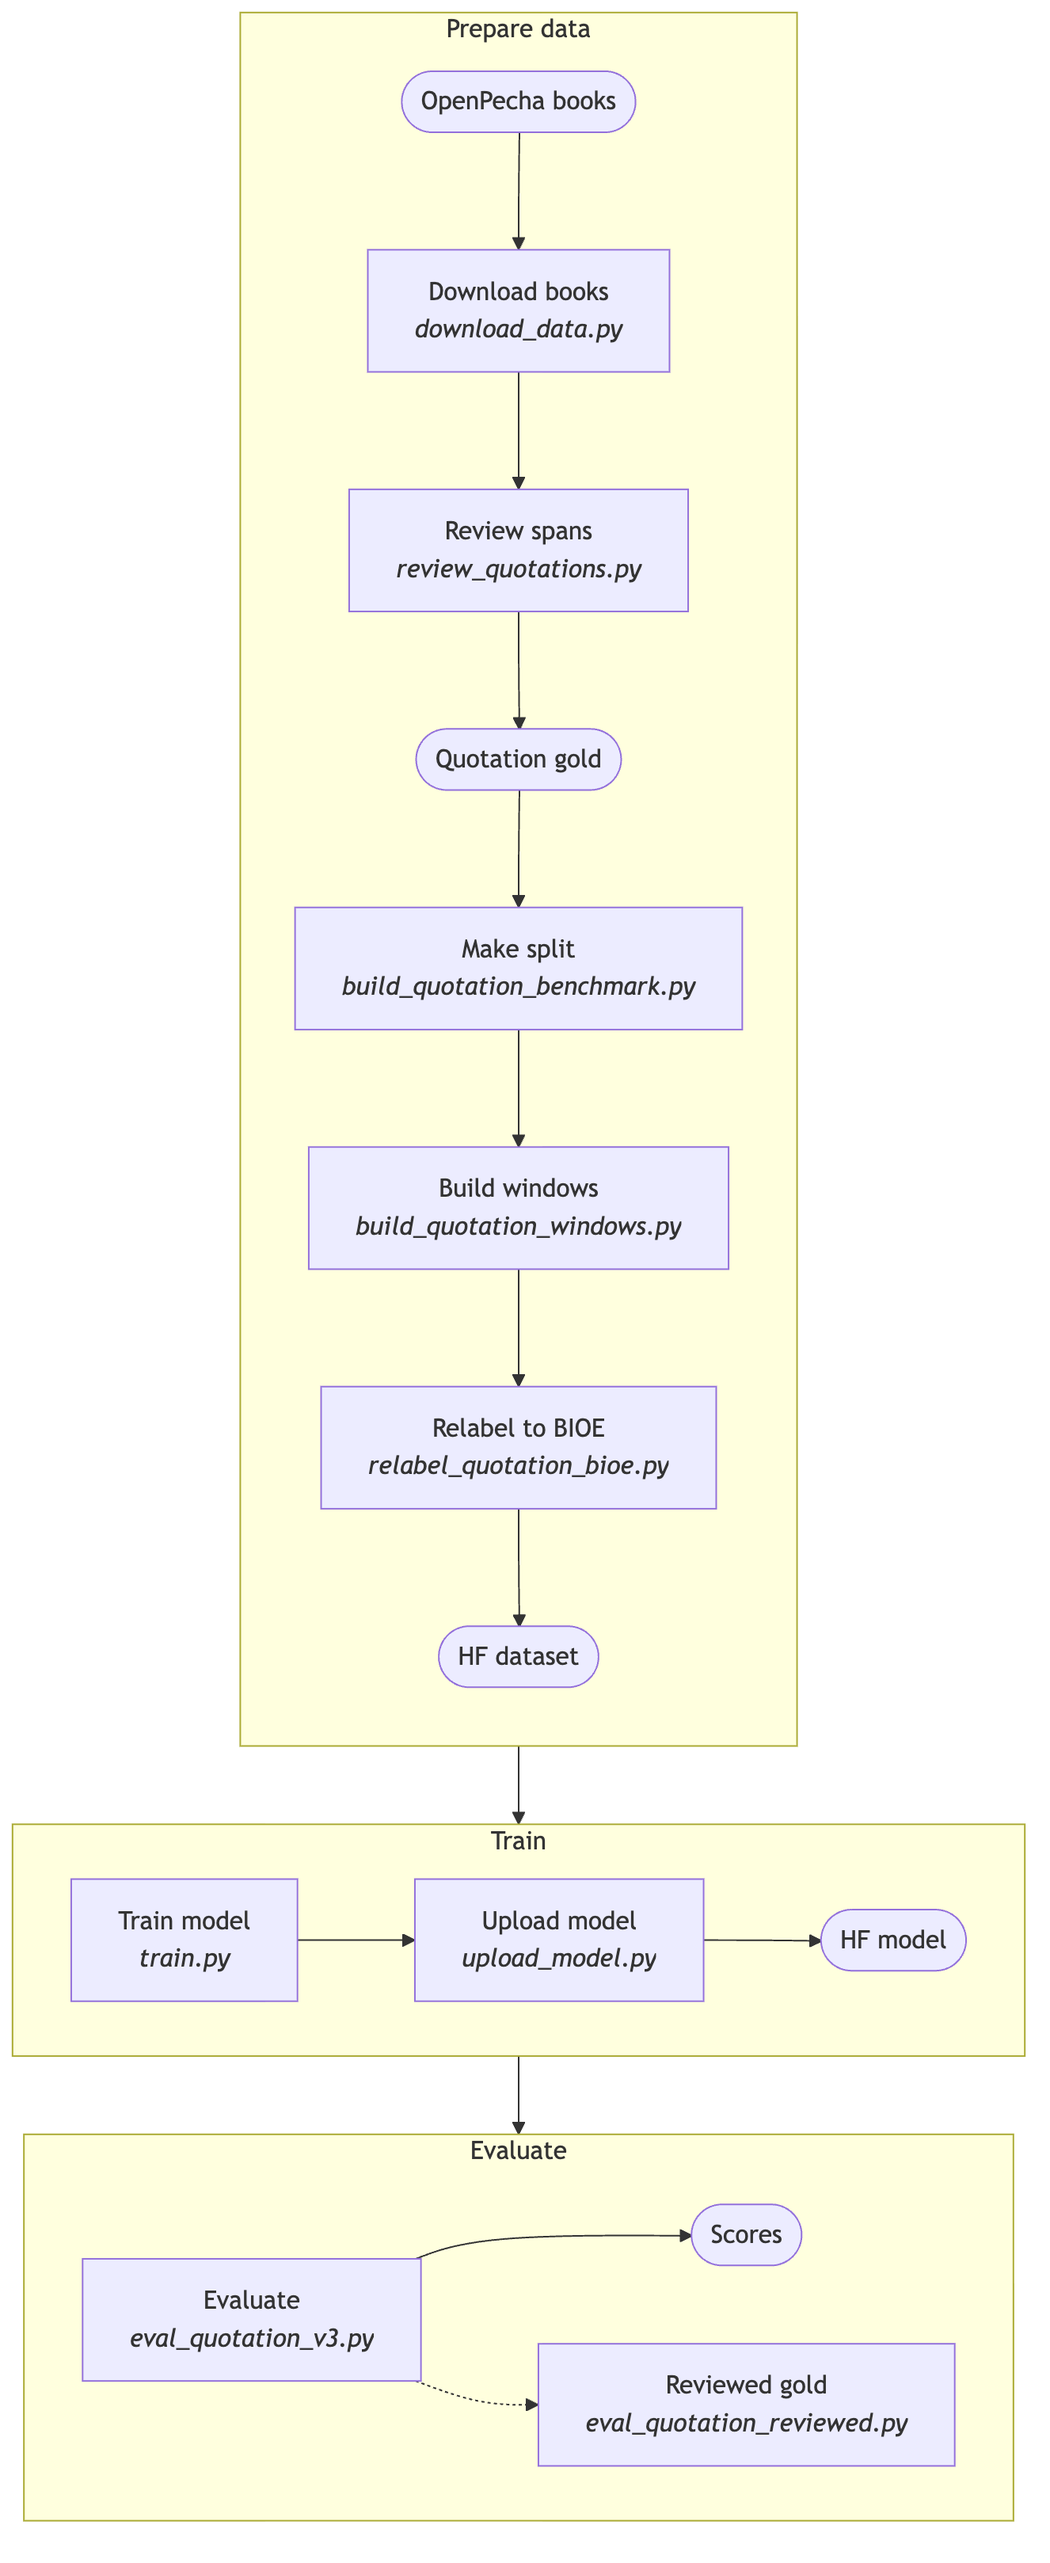
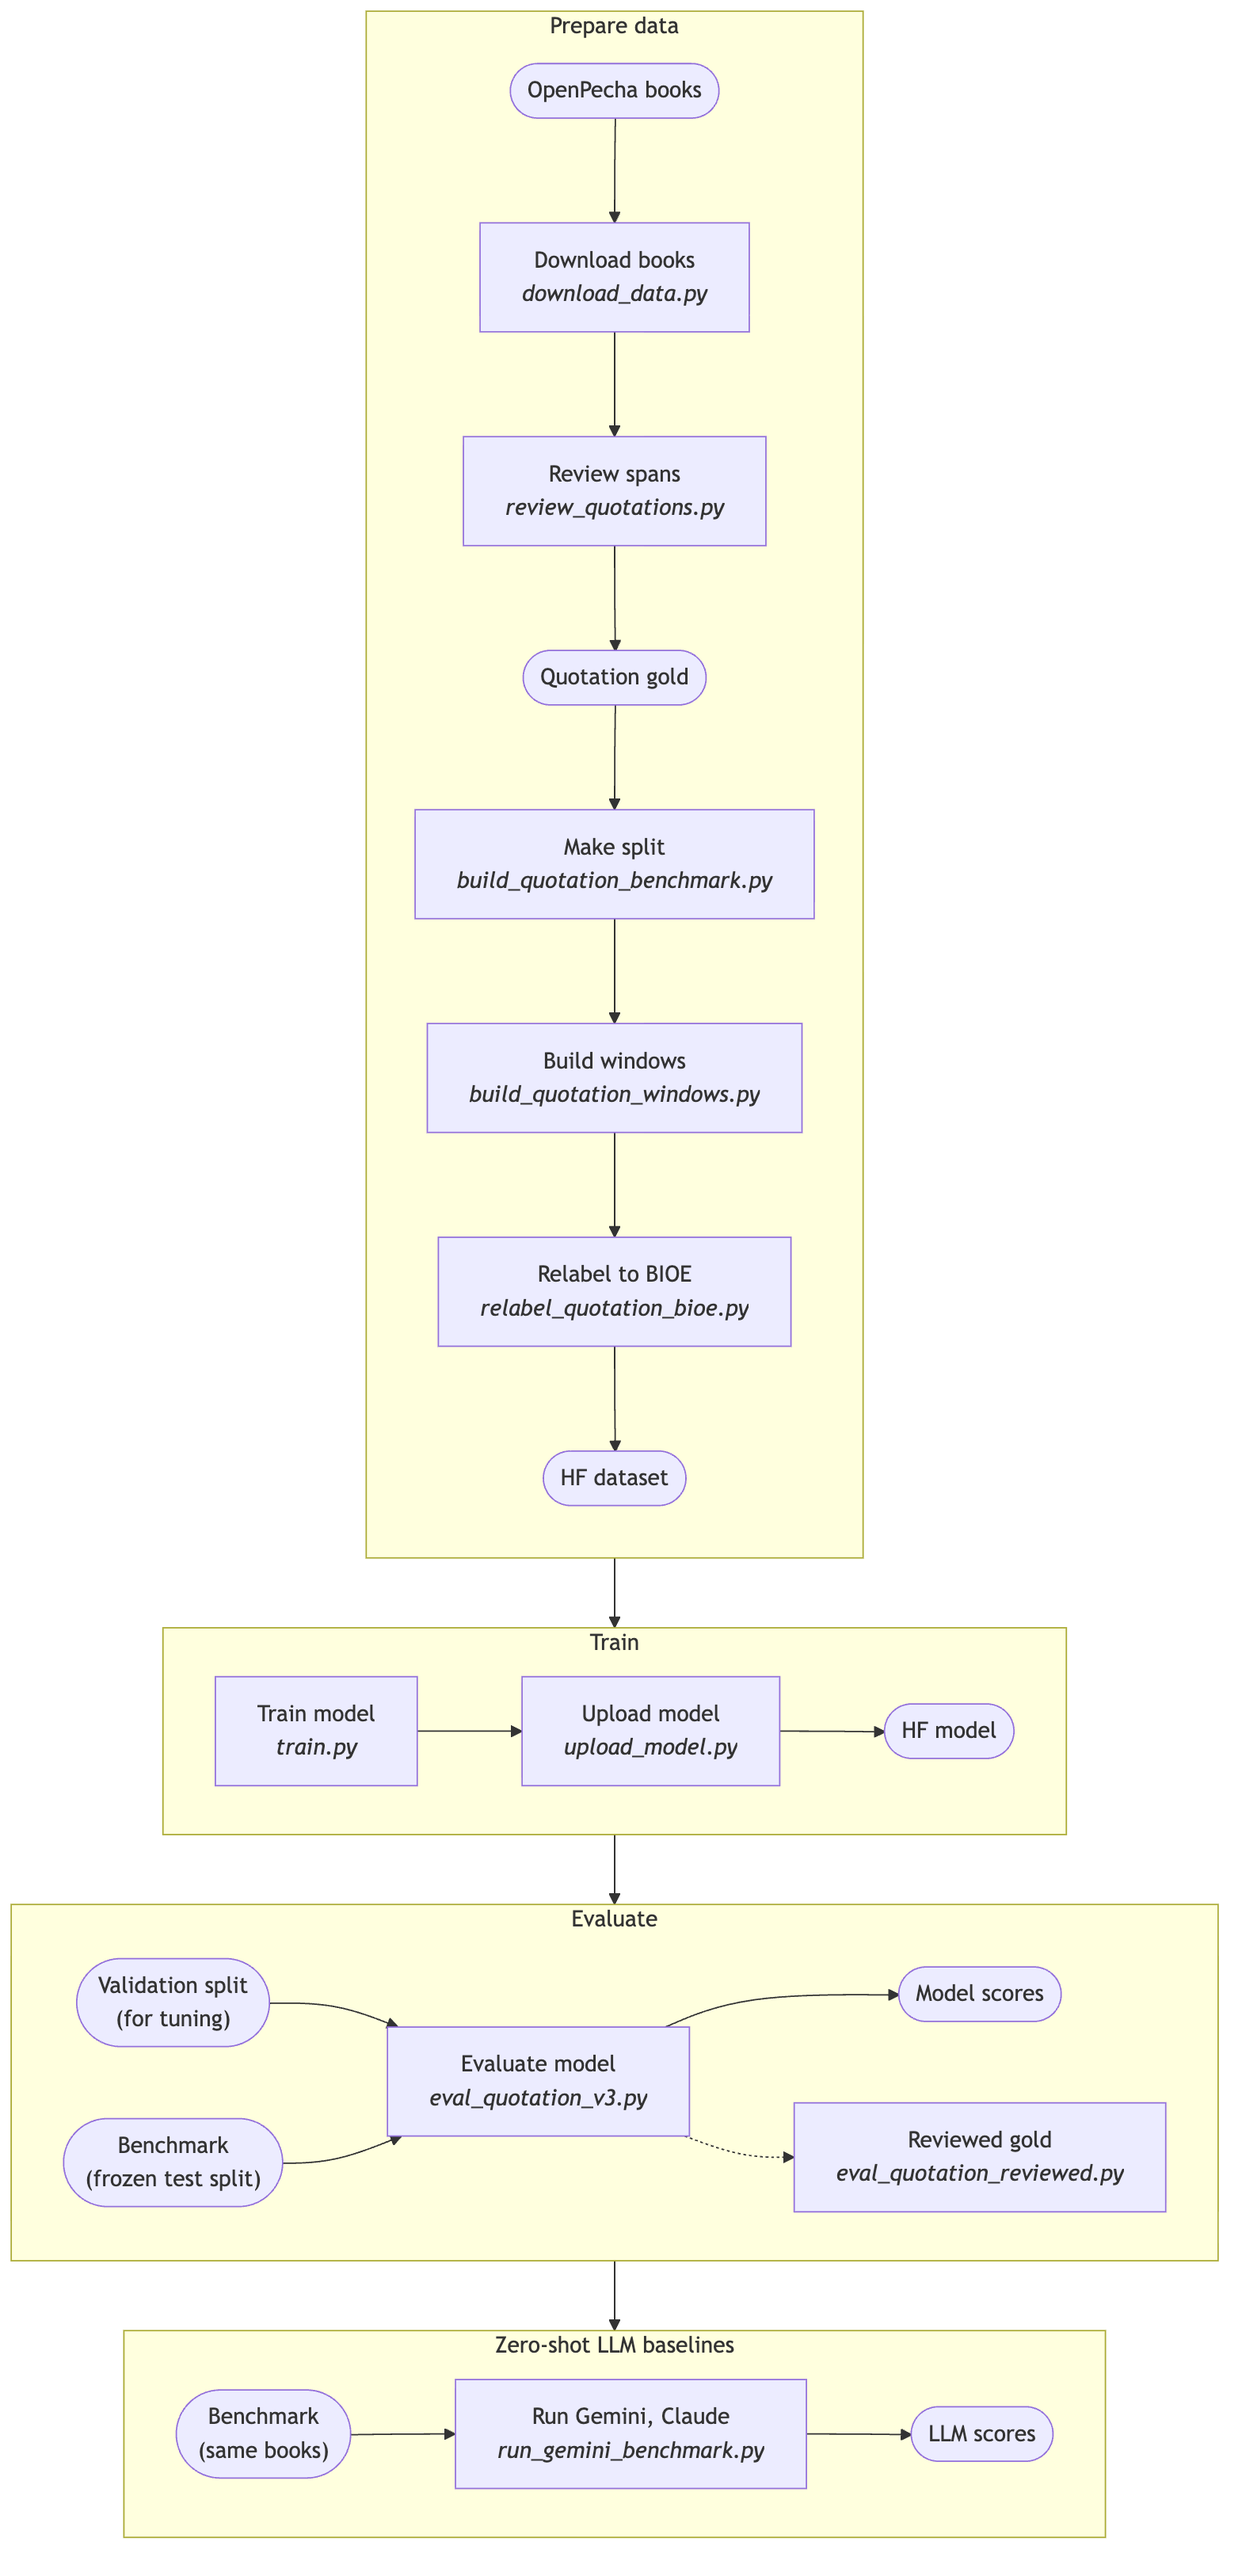
Charts: benchmark, validation and LLM-baseline boxes for Sabche, Quotation, Title/author, Tsawa, Yigchung

diff --git a/tsawa/README.md b/tsawa/README.md
@@ -32,7 +32,7 @@ Visibility read from the Hub on 2026-11-18; a 404 on the dataset means you need 
 
 <sub>Chart source: [pipeline.mmd](docs/pipeline.mmd)</sub>
 
-Squares are steps with the script that runs them; rounded boxes are files; dashed arrows are optional steps. "Add classical" stands for three scripts (convert, split, collapse; see Main pipeline). The cards are in [docs/](docs/).
+Squares are steps with the script that runs them; rounded boxes are files; dashed arrows are optional steps. The **benchmark** is the frozen test split: it is scored once and never used to tune. No zero-shot LLM results exist for Tsawa; only the prompt is in `docs/prompts/`. "Add classical" stands for three scripts (convert, split, collapse; see Main pipeline). The cards are in [docs/](docs/).
 
 ## Main pipeline
 

diff --git a/quotation/README.md b/quotation/README.md
@@ -31,7 +31,7 @@ Read from the Hub with the local login on 2026-11-18. A 404 on the model means y
 
 <sub>Chart source: [pipeline.mmd](docs/pipeline.mmd)</sub>
 
-Squares are steps with the script that runs them; rounded boxes are files; dashed arrows are optional steps. Dataset uploads use the `--push` flag of the data scripts.
+Squares are steps with the script that runs them; rounded boxes are files; dashed arrows are optional steps. The **benchmark** is the frozen test split: it is scored once and never used to tune. The zero-shot LLM runs (Gemini, Claude) use the same 19 benchmark books; their script is in the quotation repository, not here. Dataset uploads use the `--push` flag of the data scripts.
 
 ## Main pipeline
 

diff --git a/sabche/README.md b/sabche/README.md
@@ -31,7 +31,7 @@ Both are private (read from the Hub, 2026-11-18); a 404 means you need access fr
 
 <sub>Chart source: [pipeline.mmd](docs/pipeline.mmd)</sub>
 
-Squares are steps with the script that runs them; rounded boxes are files; dashed arrows are optional steps. The cards are in [docs/](docs/).
+Squares are steps with the script that runs them; rounded boxes are files; dashed arrows are optional steps. The **benchmark** is the frozen test split: it is scored once and never used to tune. The zero-shot LLM runs (Claude Sonnet 5, Gemini) use the same 29 benchmark books; results are in [results/zeroshot/](results/zeroshot/). The cards are in [docs/](docs/).
 
 ## Main pipeline
 

diff --git a/yigchung/README.md b/yigchung/README.md
@@ -47,7 +47,7 @@ Classified (genre) system:
 
 <sub>Chart source: [pipeline_2.mmd](docs/pipeline_2.mmd)</sub>
 
-Squares are steps with the script that runs them; rounded boxes are files; dashed arrows are optional steps. Uploading the dataset and the model is done with the Hugging Face CLI (no script here).
+Squares are steps with the script that runs them; rounded boxes are files; dashed arrows are optional steps. The **benchmark** is the corrected 77-book test set, scored once. Gemini is used here only to label genres, not as a baseline. Uploading the dataset and the model is done with the Hugging Face CLI (no script here).
 
 ## Main pipeline
 

diff --git a/title_author/README.md b/title_author/README.md
@@ -34,7 +34,7 @@ All four are private (read from the Hub, 2026-11-18); a 404 means you need acces
 
 <sub>Chart source: [pipeline.mmd](docs/pipeline.mmd)</sub>
 
-Squares are steps with the script that runs them; rounded boxes are files. The skill has its own chart under [Skill](#skill).
+Squares are steps with the script that runs them; rounded boxes are files. The **benchmark** is the frozen test split: it is scored once and never used to tune. The Gemini runs are scored on the same test set. The skill has its own chart under [Skill](#skill).
 
 ## Main pipeline
 
